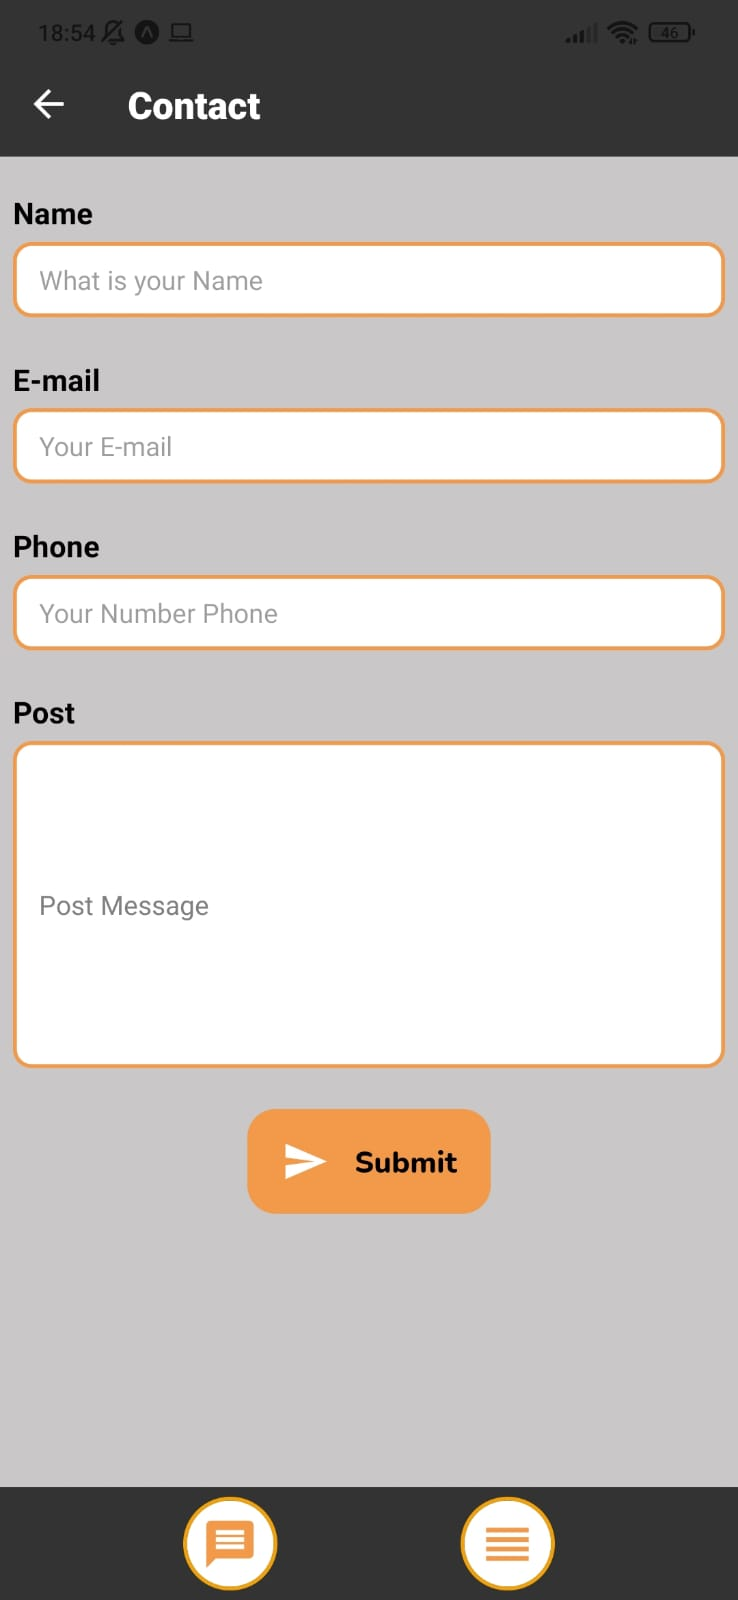
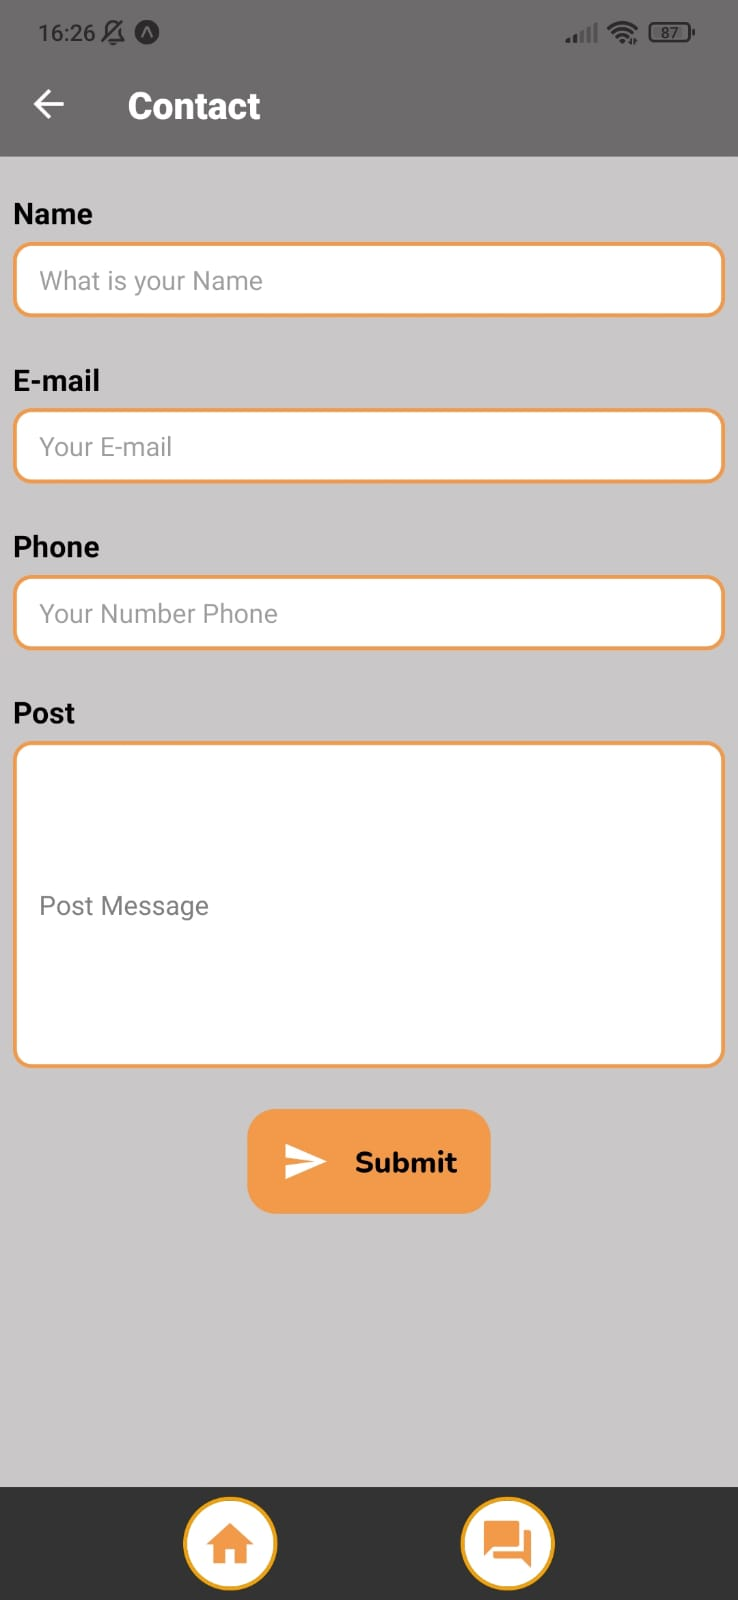
delete post component, new view for PostList on its screen because the component was bugging the screen and README update

Changed region(s): [[0.0, 0.0, 1.0, 0.125], [0.6545, 0.9375, 0.7168, 1.0], [0.2805, 0.9375, 0.3428, 1.0]]

diff --git a/src/pages/posts/postsList.js b/src/pages/posts/postsList.js
@@ -1,10 +1,23 @@
 import {useState, useEffect} from 'react';
-import {Container, ListPost, ViewLoading, ActivityIndicatorPost} from './postsList.Styled'
+import {
+  Container,
+  ListPost, 
+  ViewLoading, 
+  ActivityIndicatorPost, 
+  ViewContainer,
+  ArtistName,
+  Title,
+  Article,
+  BoxImage,
+  Image,
+  BoxText,
+} from './postsList.Styled'
 import TabBar from '../../components/TabBar/tabBar';
 import api from '../../services/api';
-import BoxPost from '../../components/Post/Post';
+import {useNavigation} from '@react-navigation/native'
 
 export default function PostList () {
+  const navigation = useNavigation();
 
   const [posts, setPosts] = useState([])
   const [page, setPage] = useState(1)
@@ -30,8 +43,6 @@ export default function PostList () {
     setLoading(false);
   }
 
-  
-
   function FooterList ({load}) {
     if (!load) return null;
     return (
@@ -39,6 +50,10 @@ export default function PostList () {
         <ActivityIndicatorPost size={25} color="#000"/>
       </ViewLoading>
     )
+  }
+
+  function handlePageDetails (post) {
+    navigation.navigate('Details', {post});
   }
 
   return (
@@ -50,8 +65,23 @@ export default function PostList () {
         onEndReached={postList}
         onEndReachedThreshold={0.1}
         ListFooterComponent={<FooterList load={loading} />}
-        renderItem={({item: post}) => (
-          <BoxPost {...post} />)}
+        renderItem={({item: post}) => 
+          <ViewContainer onPress={() => handlePageDetails (post)}>
+            <BoxImage>
+              <Image
+                source={{
+                  uri: post.imageUrl,
+                }}
+              >
+              </Image>
+            </BoxImage>
+            <BoxText>
+                <ArtistName>{post.author}</ArtistName>
+                <Title>{post.title}</Title>
+                <Article>{post.article.replace('<p>', '')}</Article>
+            </BoxText>    
+          </ViewContainer>
+        }
       />
       <TabBar/>
     </Container>

diff --git a/src/pages/posts/postsList.Styled.js b/src/pages/posts/postsList.Styled.js
@@ -6,8 +6,12 @@ export const Container = styled.SafeAreaView`
   flex-direction: column;
 `;
 
+export const ButtonBackTop = styled.FlatList``;
+
+export const ButtonBack = styled.TouchableOpacity``;
+
 export const ListPost = styled.FlatList`
-  width: 100%;
+  flex-direction: column;
 `;
 
 export const ViewLoading = styled.View`
@@ -15,4 +19,53 @@ export const ViewLoading = styled.View`
 `;
 
 export const ActivityIndicatorPost = styled.ActivityIndicator`
+`;
+
+export const ViewContainer = styled.TouchableOpacity`
+  flex-direction: row;
+  flex-wrap: wrap;
+`;
+
+export const BoxImage = styled.View`
+  flex: 1;
+  padding-top: 10px;
+  padding-left: 5px;
+  `;
+
+  export const Image = styled.Image.attrs(() => ({
+    resizeMode: 'contain',
+  }))`
+    width: 100%;
+    height: 130px;
+  `;
+
+export const BoxText = styled.View`
+  flex: 2;
+  padding: 10px 5px 0 5px;
+  margin-top: 10px;
+  background: #eaeaea;
+`;
+
+export const ArtistName = styled.Text`
+  font-size: 16px;
+  font-family: Nunito_800ExtraBold;
+  `;
+
+export const Title = styled.Text.attrs(() =>({
+  ellipsizeMode: 'tail',
+  numberOfLines: 2
+}))`
+  font-size: 16px;
+  font-family: Nunito_700Bold;
+  color: #F1A10A;
+  `;
+
+export const Article = styled.Text.attrs(() =>({
+  ellipsizeMode: 'tail',
+  numberOfLines: 2
+}))`
+  color: #2d2d2d;
+  font-size: 17px;
+  font-family: Nunito_600SemiBold;
+  text-align: justify;
 `;

diff --git a/src/pages/details/details.js b/src/pages/details/details.js
@@ -15,7 +15,7 @@ import {useRoute} from '@react-navigation/native'
 export default function Details () {
 
   const route = useRoute();
-  const {props} = route.params;
+  const {post} = route.params;
 
   return (
     <Container>
@@ -23,16 +23,16 @@ export default function Details () {
         <BoxImage>
           <Image
             source={{
-              uri: props.imageUrl,
+              uri: post.imageUrl,
             }}
           >
           </Image>
         </BoxImage>
         <BoxText>
-          <Data>{props.date}</Data>
-          <ArtistName>{props.author}</ArtistName>
-          <Title>{props.title}</Title>
-          <Article>{props.article.replace('<p>', '')}</Article>
+          <Data>{post.date}</Data>
+          <ArtistName>{post.author}</ArtistName>
+          <Title>{post.title}</Title>
+          <Article>{post.article.replace('<p>', '')}</Article>
         </BoxText>
       </ContainerView>  
       <TabBar/>

diff --git a/src/components/TabBar/tabBar.js b/src/components/TabBar/tabBar.js
@@ -18,14 +18,14 @@ export default function TabBar() {
       <PostList>
         <MaterialIcons
           onPress={handleNavigatePostList}
-          name='message'
+          name='home'
           size={30}
           color="#f39a4a"/>
       </PostList>
       <ContactButton>
         <MaterialIcons 
           onPress={handleNavigateContact}
-          name='reorder'
+          name='forum'
           size={30}
           color="#f39a4a"/>
       </ContactButton>

diff --git a/README.md b/README.md
@@ -2,9 +2,14 @@
 
 ## Teste para desenvolvedor [Coderockr](https://github.com/Coderockr)
 
-<b>Conectando a API</b> `https://stormy-shelf-93141.herokuapp.com/`
+<b>Conectando a API</b> https://stormy-shelf-93141.herokuapp.com/
 
 ---
+<h2><b><br/>Resultado final da aplicação</b></h2><br/>
+<p align="center"><img width="270" height="570" src="src/assets/app.gif"></p>
+
+---
+
 <h2><b><br/>Bibliotecas utilizadas no projeto</b></h2>
 
 - [React Native](https://reactnative.dev/)
